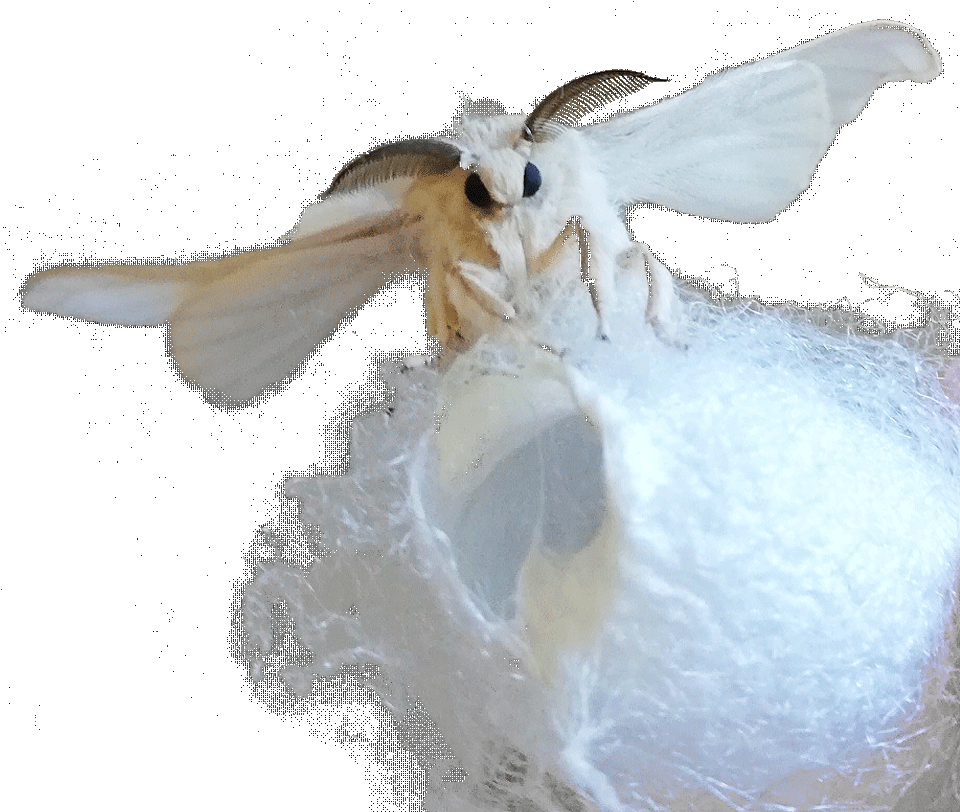
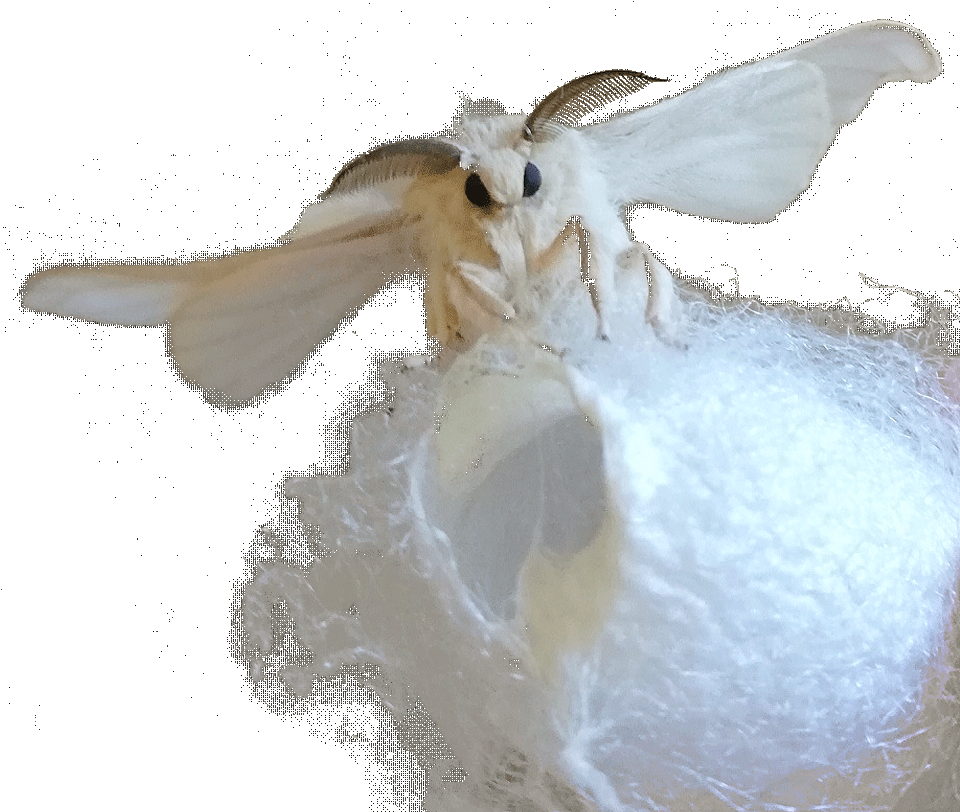
moth

diff --git a/styles.css b/styles.css
@@ -469,10 +469,10 @@ p.visible a  {
 
 .withfriends {
     position: fixed;
-    bottom: calc(var(--body-margin)/2);
-    right: var(--body-margin);
+    bottom: 0px;
+    right: 0px;
     /* width: 230px; */
-    width: 9.5vw;
+    width: 12vw;
     z-index: 100;
     cursor: pointer !important;
     transition: all .2s ease-out;
@@ -482,7 +482,7 @@ p.visible a  {
 }
 
 .withfriends:hover, .withfriends.touched {
-  transform: rotate(5deg);
+  /* transform: rotate(-5deg); */
 }
 
 .withfriends:hover p  {
@@ -506,9 +506,9 @@ p.visible a  {
     text-align: center;
     /* font-size: 1.5em; */
     position: absolute;
-    top: 50%;
-    left: 50%;
-    transform: translate(-50%, -50%);
+    bottom: 20%;
+    right: 10%;
+    /* transform: translate(-50%, -50%); */
     /* width: 100px; */
     /* text-shadow: 0 0 10px var(--background-shadow); */
     display: table;
@@ -521,10 +521,10 @@ p.visible a  {
     display: table;
     margin: 0px auto 0px auto;
     padding: 5px;
-    background-color: #ffffff80;
+    background-color: rgba(255,255,255, .2);
     /* height: 33px; */
     height: auto;
-    box-shadow: 0 0 10px white;
+    box-shadow: 0 0 10px rgba(255,255,255, .2);
     border-radius: 50%;
     transition: all .2s ease-out;
     -moz-transition: all .2s ease-out;
@@ -539,7 +539,7 @@ p.visible a  {
 
 .applynow {
     position: fixed;
-    bottom: calc(var(--body-margin)/2);
+    bottom: .5vh;
     left: var(--body-margin);
     /* width: 230px; */
     width: 9.5vw;
@@ -1232,11 +1232,12 @@ a.expand.active {
     }
     .withfriends {
       /* width: 110px; */
-      width: 27vw;
+      width: 34vw;
     }
     .withfriends p {
       opacity: 1;
       font-size: 4.5vw;
+      right: 5%;
     }
 
     .applynow {

diff --git a/index.html b/index.html
@@ -161,7 +161,7 @@
         </div>
 
             <div class="withfriends">
-                <a target="_blank" href="https://withfriends.co/school_for_poetic_computation/join"><img src="pupa.png" alt="A pile of insect pupa, soft silky eggs">
+                <a target="_blank" href="https://withfriends.co/school_for_poetic_computation/join"><img src="moth.png" alt="A pile of insect pupa, soft silky eggs">
                     <p class="support-us">Support<BR>Us</p>
                 </a>
             </div>
